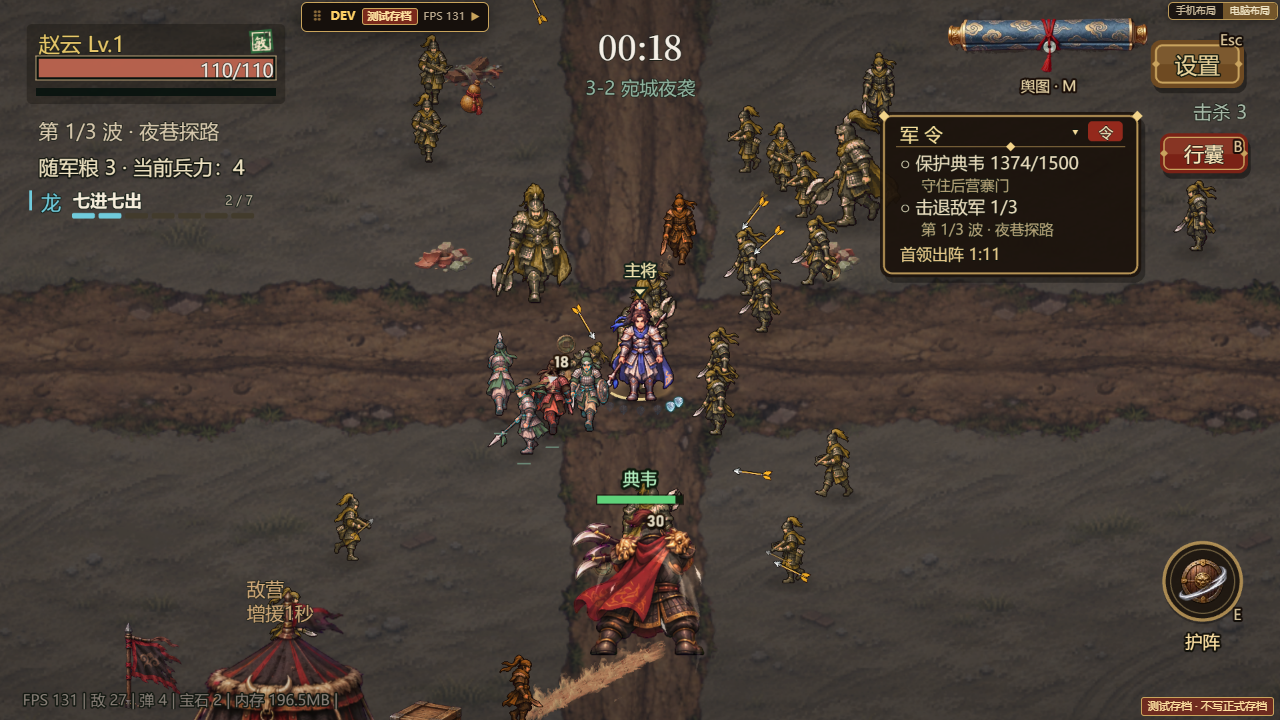
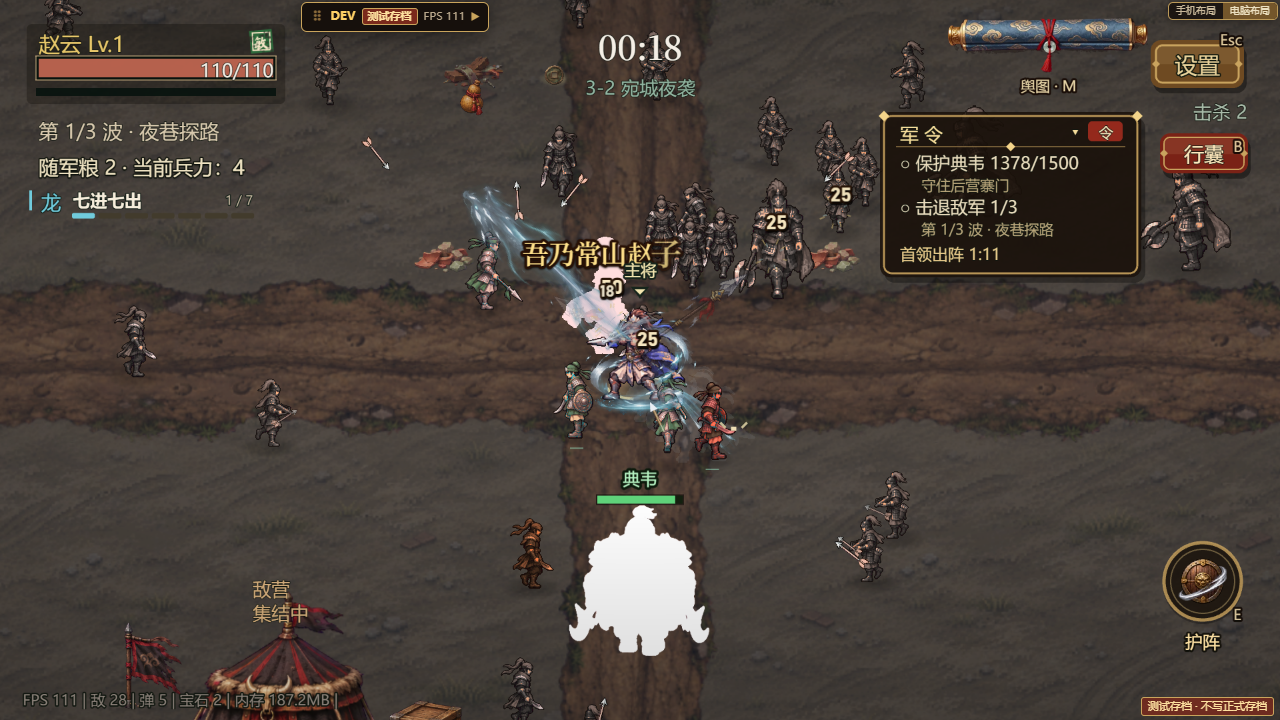
第三章李傕 / 张绣配色改深铁灰带锈褐（用户「4做」：土黄会被看成黄巾黄）；faction 测试不再自己截图（3-2-colours.png 为实战中截图）

diff --git a/src/systems/FactionPalette.ts b/src/systems/FactionPalette.ts
@@ -8,10 +8,10 @@ import type {FactionId} from '../world/WorldCities';
  */
 /** val：明度倍率（压暗，如第三章凉州残部的「黑底土黄」）。 */
 type Target = {hue: number; sat: number; val?: number} | 'gray' | null;
-/** 势力之外的配色（不是天下地图势力）：liangzhou = 第三章李傕 / 张绣的凉州残部（用户 11-19：张绣兵沿用西凉红黑被当成友军；要和我方绿、曹军蓝青、第二章西凉红都分开）。 */
+/** 势力之外的配色（不是天下地图势力）：liangzhou = 第三章李傕 / 张绣的凉州残部（用户 11-19：张绣兵沿用西凉红黑被当成友军；深铁灰 + 锈褐，和我方绿、曹军蓝青、第二章西凉红、黄巾黄都分开）。 */
 export type PaletteId = FactionId | 'liangzhou';
 const TARGET: Record<PaletteId, Target> = {
-  liangzhou: {hue: 40, sat: .85, val: .74},
+  liangzhou: {hue: 16, sat: .3, val: .6}, // 11-19 用户「4做」：土黄会被看成黄巾黄 → 深铁灰带一点锈褐（低饱和、压暗，和第二章鲜红、黄巾黄、曹军蓝青、我方绿、袁术紫都分开）
   player: null, dongzhuo: null,
   yuanshao: {hue: 42, sat: .82}, yellow: {hue: 52, sat: .9}, caocao: {hue: 218, sat: .7}, yuanshu: {hue: 282, sat: .6},
   liubiao: {hue: 112, sat: .42}, sun: {hue: 22, sat: .95}, mateng: {hue: 32, sat: .55}, liuzhang: {hue: 78, sat: .55},

diff --git a/src/data/thirdChapter.ts b/src/data/thirdChapter.ts
@@ -9,7 +9,7 @@ export const THIRD_STAGES=[
  {stage:2 as const,name:'宛城夜袭',boss:'张绣',id:'zhangxiu',story:'夜火映城，枪影伏巷。守住后阵，避开连环突刺。'},
  {stage:3 as const,name:'寿春讨逆',boss:'袁术',id:'yuanshu',story:'伪帝据营，旗令如林。击破亲军，瓦解寿春军势。'},
 ];
-/** 第三章敌军配色（用户 11-19 批准换色）：3-1 李傕、3-2 张绣是凉州残部——黑底土黄（liangzhou），3-3 袁术用袁术势力紫（yuanshu）；只换衣甲红色，图不变。ThirdGameScene 开局按这里生成换色贴图。 */
+/** 第三章敌军配色（用户 11-19 批准换色）：3-1 李傕、3-2 张绣是凉州残部——深铁灰带锈褐（liangzhou），3-3 袁术用袁术势力紫（yuanshu）；只换衣甲红色，图不变。ThirdGameScene 开局按这里生成换色贴图。 */
 export function thirdPalette(stage:ThirdStage):PaletteId{return stage===3?'yuanshu':'liangzhou';}
 const recolor=(es:Record<string,EnemyDef>,p:PaletteId)=>Object.fromEntries(Object.entries(es).map(([k,d])=>[k,k==='boss'||!d.walkVisual?d:{...d,walkVisual:{...d.walkVisual,texture:factionKey(p,d.walkVisual.texture)}}])) as typeof es;
 /** The battle engine's west-army template is reused; progression uses WorldStore's qunxiong arc. */
